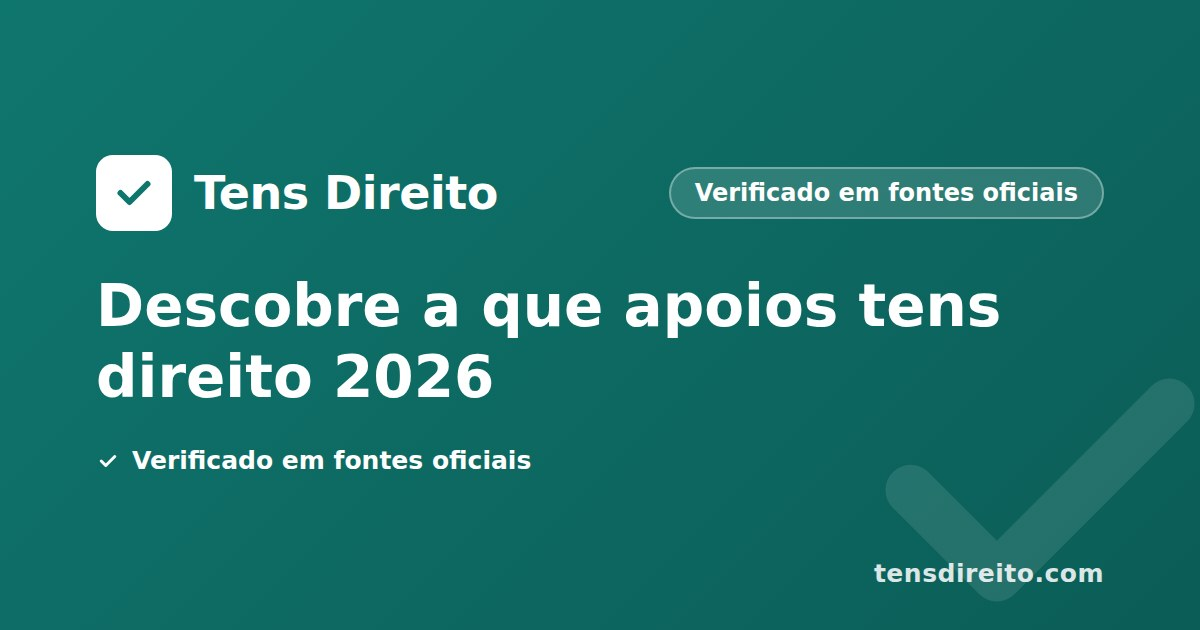
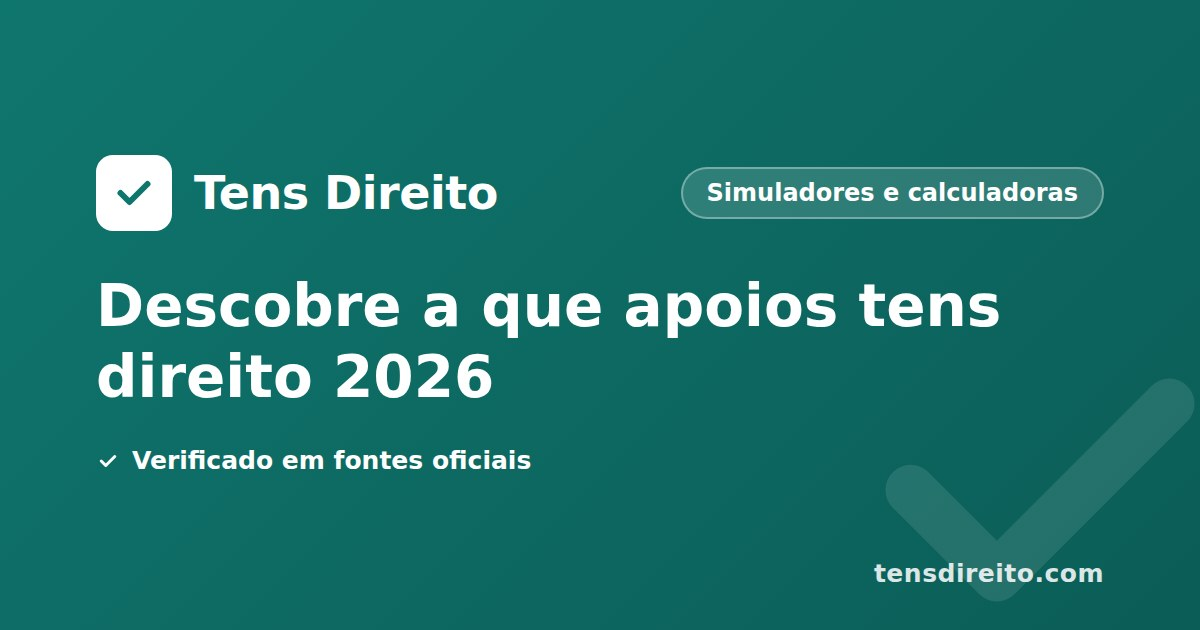
OG do simulador universal: chip «Simuladores e calculadoras» (decisão do Nuno no PR #258)
Claude-Session: https://claude.ai/code/session_01RZjWKgMU9HU7tnLGtsaFmf

Changed region(s): [[0.555, 0.2714, 0.8942, 0.3619]]

diff --git a/scripts/gerar_og_images.py b/scripts/gerar_og_images.py
@@ -168,8 +168,8 @@ def _mapa_chips() -> dict[str, str]:
         mapa[f"documentos/{doc.name}"] = "Gerador de documentos"
     mapa["simuladores.html"] = "Simuladores e calculadoras"
     mapa["verificador-apoios.html"] = "Simuladores e calculadoras"
-    # Simulador universal: cross-cluster por construção — chip genérico.
-    mapa["simulador-universal.html"] = "Verificado em fontes oficiais"
+    # Simulador universal: cross-cluster por construção — mesmo chip do hub.
+    mapa["simulador-universal.html"] = "Simuladores e calculadoras"
     return mapa
 
 

diff --git a/HISTORICO.md b/HISTORICO.md
@@ -6643,7 +6643,7 @@ eles, quem responde "não" ficava eternamente em "falta saber" (guardrail em
 `/dados/condicoes.json`, script num IIFE (colisão com `mostrarResultados`
 de `pesquisa.js`), aviso RSI → PSU com a data dos dados. Ligações:
 cartão em destaque em `simuladores.html`, sitemap, `pesquisa.js`,
-`EXCLUIDAS` de clusters, OG com chip genérico, smoke test, CTA principal do
+`EXCLUIDAS` de clusters, OG com o chip "Simuladores e calculadoras", smoke test, CTA principal do
 hero da homepage. Achado nos testes: o banner de cookies cobria os botões
 em telemóvel e cada clique do Playwright esperava ~2 s — os testes gravam a
 escolha antes de carregar (90 s → ~11 s); a página passou também a
